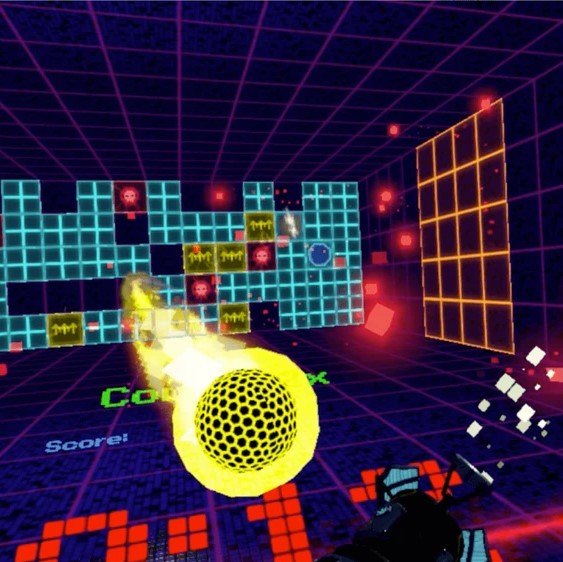
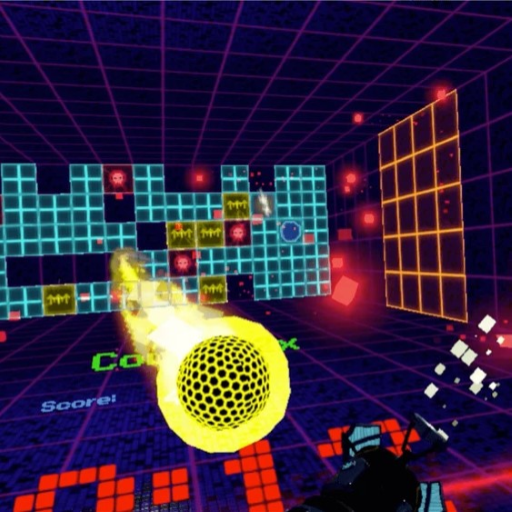
Included thumbnails for faster loading

diff --git a/pages/unity-midi-piano.html b/pages/unity-midi-piano.html
@@ -87,19 +87,22 @@
 							<!-- Wrapper for slides -->
 							<div class='carousel-inner'>
 								<div class='item active' data-slide-number='0'>
-									<video poster="../img/unity-midi-piano/screenshot_0.png" src="../img/unity-midi-piano/video_1.mp4" data-ckin="compact" data-color="white"></video>
+									<video poster="../img/unity-midi-piano/video_preview_1.png" src="../img/unity-midi-piano/video_1.mp4" data-ckin="compact" data-color="white"></video>
+								</div>
+								<div class='item' data-slide-number='1'>
+									<video poster="../img/unity-midi-piano/video_preview_2.png" src="../img/unity-midi-piano/video_2.mp4" data-ckin="compact" data-color="white"></video>
 								</div>
 								<div class='item' data-slide-number='2'>
-									<video poster="../img/unity-midi-piano/video_thumbnail_2.png" src="../img/unity-midi-piano/video_2.mp4" data-ckin="compact" data-color="white"></video>
+									<a href="#modal-2" data-toggle="modal" data-target="#modal-1"><img src='../img/unity-midi-piano/screenshot_1.png' alt='' /></a>
 								</div>
 								<div class='item' data-slide-number='3'>
-									<a href="#modal-2" data-toggle="modal" data-target="#modal-2"><img src='../img/unity-midi-piano/screenshot_2.png' alt='' /></a>
+									<a href="#modal-3" data-toggle="modal" data-target="#modal-2"><img src='../img/unity-midi-piano/screenshot_2.png' alt='' /></a>
 								</div>
 								<div class='item' data-slide-number='4'>
-									<a href="#modal-3" data-toggle="modal" data-target="#modal-3"><img src='../img/unity-midi-piano/screenshot_3.png' alt='' /></a>
+									<a href="#modal-4" data-toggle="modal" data-target="#modal-3"><img src='../img/unity-midi-piano/screenshot_3.png' alt='' /></a>
 								</div>
 								<div class='item' data-slide-number='5'>
-									<a href="#modal-4" data-toggle="modal" data-target="#modal-4"><img src='../img/unity-midi-piano/screenshot_4.png' alt='' /></a>
+									<a href="#modal-5" data-toggle="modal" data-target="#modal-4"><img src='../img/unity-midi-piano/screenshot_4.png' alt='' /></a>
 								</div>
 							</div>
 								
@@ -114,12 +117,12 @@
 						
 						<div id='slider-thumbs' class='carousel-container scrollbar-inner'>
 							<ul>
-							<li id="carousel-selector-0" class='active'><img src='../img/unity-midi-piano/screenshot_0.png' alt='' /></li>
+							<li id="carousel-selector-0" class='active'><img src='../img/unity-midi-piano/video_thumbnail_1.png' alt='' /></li>
 							<li id="carousel-selector-1"><img src='../img/unity-midi-piano/video_thumbnail_2.png' alt='' /></li>
-							<li id="carousel-selector-2"><img src='../img/unity-midi-piano/screenshot_1.png' alt='' /></li>
-							<li id="carousel-selector-3"><img src='../img/unity-midi-piano/screenshot_2.png' alt='' /></li>
-							<li id="carousel-selector-4"><img src='../img/unity-midi-piano/screenshot_3.png' alt='' /></li>
-							<li id="carousel-selector-5"><img src='../img/unity-midi-piano/screenshot_4.png' alt='' /></li>
+							<li id="carousel-selector-2"><img src='../img/unity-midi-piano/screenshot_thumbnail_1.png' alt='' /></li>
+							<li id="carousel-selector-3"><img src='../img/unity-midi-piano/screenshot_thumbnail_2.png' alt='' /></li>
+							<li id="carousel-selector-4"><img src='../img/unity-midi-piano/screenshot_thumbnail_3.png' alt='' /></li>
+							<li id="carousel-selector-5"><img src='../img/unity-midi-piano/screenshot_thumbnail_4.png' alt='' /></li>
 							</ul>
 						</div>
 					</div>

diff --git a/pages/o-koi.html b/pages/o-koi.html
@@ -111,7 +111,7 @@
 							<!-- Wrapper for slides -->
 							<div class='carousel-inner'>
 								<div class='item active' data-slide-number='0'>
-									<video poster="../img/o-koi/screenshot_6.png" src="../img/o-koi/video_1.mp4" data-ckin="compact" data-color="white"></video>
+									<video poster="../img/o-koi/video_preview_1.png" src="../img/o-koi/video_1.mp4" data-ckin="compact" data-color="white"></video>
 								</div>
 								<div class='item' data-slide-number='1'>
 									<a href="#modal-1" data-toggle="modal" data-target="#modal-1"><img src='../img/o-koi/screenshot_1.png' alt='' /></a>
@@ -147,14 +147,14 @@
 						
 						<div id='slider-thumbs' class='carousel-container scrollbar-inner'>
 							<ul>
-							<li id="carousel-selector-0" class='active'><img src='../img/o-koi/screenshot_6.png' alt='' /></li>
-							<li id="carousel-selector-1"><img src='../img/o-koi/screenshot_1.png' alt='' /></li>
-							<li id="carousel-selector-2"><img src='../img/o-koi/screenshot_2.png' alt='' /></li>
-							<li id="carousel-selector-3"><img src='../img/o-koi/screenshot_3.png' alt='' /></li>
-							<li id="carousel-selector-4"><img src='../img/o-koi/screenshot_4.png' alt='' /></li>
-							<li id="carousel-selector-5"><img src='../img/o-koi/screenshot_5.png' alt='' /></li>
-							<li id="carousel-selector-6"><img src='../img/o-koi/screenshot_6.png' alt='' /></li>
-							<li id="carousel-selector-7"><img src='../img/o-koi/screenshot_7.png' alt='' /></li>
+							<li id="carousel-selector-0" class='active'><img src='../img/o-koi/video_thumbnail_1.png' alt='' /></li>
+							<li id="carousel-selector-1"><img src='../img/o-koi/screenshot_thumbnail_1.png' alt='' /></li>
+							<li id="carousel-selector-2"><img src='../img/o-koi/screenshot_thumbnail_2.png' alt='' /></li>
+							<li id="carousel-selector-3"><img src='../img/o-koi/screenshot_thumbnail_3.png' alt='' /></li>
+							<li id="carousel-selector-4"><img src='../img/o-koi/screenshot_thumbnail_4.png' alt='' /></li>
+							<li id="carousel-selector-5"><img src='../img/o-koi/screenshot_thumbnail_5.png' alt='' /></li>
+							<li id="carousel-selector-6"><img src='../img/o-koi/screenshot_thumbnail_6.png' alt='' /></li>
+							<li id="carousel-selector-7"><img src='../img/o-koi/screenshot_thumbnail_7.png' alt='' /></li>
 							</ul>
 						</div>
 					</div>

diff --git a/pages/all-our-paradise.html b/pages/all-our-paradise.html
@@ -95,7 +95,7 @@
 							<!-- Wrapper for slides -->
 							<div class='carousel-inner'>
 								<div class='item active' data-slide-number='0'>
-									<video poster="../img/all-our-paradise/screenshot_2.png" src="../img/all-our-paradise/video_1.mp4" data-ckin="compact" data-color="white"></video>
+									<video poster="../img/all-our-paradise/video_preview_1.png" src="../img/all-our-paradise/video_1.mp4" data-ckin="compact" data-color="white"></video>
 								</div>
 								<div class='item' data-slide-number='1'>
 									<a href="#modal-1" data-toggle="modal" data-target="#modal-1"><img src='../img/all-our-paradise/screenshot_1.png' alt='' /></a>
@@ -125,12 +125,12 @@
 						
 						<div id='slider-thumbs' class='carousel-container scrollbar-inner'>
 							<ul>
-							<li id="carousel-selector-0" class='active'><img src='../img/all-our-paradise/screenshot_2.png' alt='' /></li>
-							<li id="carousel-selector-1"><img src='../img/all-our-paradise/screenshot_1.png' alt='' /></li>
-							<li id="carousel-selector-2"><img src='../img/all-our-paradise/screenshot_2.png' alt='' /></li>
-							<li id="carousel-selector-3"><img src='../img/all-our-paradise/screenshot_3.png' alt='' /></li>
-							<li id="carousel-selector-4"><img src='../img/all-our-paradise/screenshot_4.png' alt='' /></li>
-							<li id="carousel-selector-5"><img src='../img/all-our-paradise/screenshot_5.png' alt='' /></li>
+							<li id="carousel-selector-0" class='active'><img src='../img/all-our-paradise/video_thumbnail_1.png' alt='' /></li>
+							<li id="carousel-selector-1"><img src='../img/all-our-paradise/screenshot_thumbnail_1.png' alt='' /></li>
+							<li id="carousel-selector-2"><img src='../img/all-our-paradise/screenshot_thumbnail_2.png' alt='' /></li>
+							<li id="carousel-selector-3"><img src='../img/all-our-paradise/screenshot_thumbnail_3.png' alt='' /></li>
+							<li id="carousel-selector-4"><img src='../img/all-our-paradise/screenshot_thumbnail_4.png' alt='' /></li>
+							<li id="carousel-selector-5"><img src='../img/all-our-paradise/screenshot_thumbnail_5.png' alt='' /></li>
 							</ul>
 						</div>
 					</div>

diff --git a/pages/super-pixel-smash.html b/pages/super-pixel-smash.html
@@ -95,7 +95,7 @@
 							<!-- Wrapper for slides -->
 							<div class='carousel-inner'>
 								<div class='item active' data-slide-number='0'>
-									<video poster="../img/super-pixel-smash/video_thumbnail_1.png" src="../img/super-pixel-smash/video_1.webm" data-ckin="compact" data-color="white"></video>
+									<video poster="../img/super-pixel-smash/video_preview_1.png" src="../img/super-pixel-smash/video_1.webm" data-ckin="compact" data-color="white"></video>
 								</div>
 								<div class='item' data-slide-number='1'>
 									<a href="#modal-1" data-toggle="modal" data-target="#modal-1"><img src='../img/super-pixel-smash/screenshot_1.png' alt='' /></a>
@@ -126,11 +126,11 @@
 						<div id='slider-thumbs' class='carousel-container scrollbar-inner'>
 							<ul>
 							<li id="carousel-selector-0" class='active'><img src='../img/super-pixel-smash/video_thumbnail_1.png' alt='' /></li>
-							<li id="carousel-selector-1"><img src='../img/super-pixel-smash/screenshot_1.png' alt='' /></li>
-							<li id="carousel-selector-2"><img src='../img/super-pixel-smash/screenshot_2.png' alt='' /></li>
-							<li id="carousel-selector-3"><img src='../img/super-pixel-smash/screenshot_3.png' alt='' /></li>
-							<li id="carousel-selector-4"><img src='../img/super-pixel-smash/screenshot_4.png' alt='' /></li>
-							<li id="carousel-selector-5"><img src='../img/super-pixel-smash/screenshot_5.png' alt='' /></li>
+							<li id="carousel-selector-1"><img src='../img/super-pixel-smash/screenshot_thumbnail_1.png' alt='' /></li>
+							<li id="carousel-selector-2"><img src='../img/super-pixel-smash/screenshot_thumbnail_2.png' alt='' /></li>
+							<li id="carousel-selector-3"><img src='../img/super-pixel-smash/screenshot_thumbnail_3.png' alt='' /></li>
+							<li id="carousel-selector-4"><img src='../img/super-pixel-smash/screenshot_thumbnail_4.png' alt='' /></li>
+							<li id="carousel-selector-5"><img src='../img/super-pixel-smash/screenshot_thumbnail_5.png' alt='' /></li>
 							</ul>
 						</div>
 					</div>

diff --git a/pages/dr-egg.html b/pages/dr-egg.html
@@ -133,12 +133,12 @@
 						
 						<div id='slider-thumbs' class='carousel-container scrollbar-inner'>
 							<ul>
-							<li id="carousel-selector-0" class='active'><img src='../img/dr-egg-adventure-lab/screenshot_1.png' alt='' /></li>
-							<li id="carousel-selector-1"><img src='../img/dr-egg-adventure-lab/screenshot_2.png' alt='' /></li>
-							<li id="carousel-selector-2"><img src='../img/dr-egg-adventure-lab/screenshot_3.png' alt='' /></li>
-							<li id="carousel-selector-3"><img src='../img/dr-egg-adventure-lab/screenshot_4.png' alt='' /></li>
-							<li id="carousel-selector-4"><img src='../img/dr-egg-adventure-lab/screenshot_5.png' alt='' /></li>
-							<li id="carousel-selector-5"><img src='../img/dr-egg-adventure-lab/screenshot_6.png' alt='' /></li>
+							<li id="carousel-selector-0" class='active'><img src='../img/dr-egg-adventure-lab/screenshot_thumbnail_1.png' alt='' /></li>
+							<li id="carousel-selector-1"><img src='../img/dr-egg-adventure-lab/screenshot_thumbnail_2.png' alt='' /></li>
+							<li id="carousel-selector-2"><img src='../img/dr-egg-adventure-lab/screenshot_thumbnail_3.png' alt='' /></li>
+							<li id="carousel-selector-3"><img src='../img/dr-egg-adventure-lab/screenshot_thumbnail_4.png' alt='' /></li>
+							<li id="carousel-selector-4"><img src='../img/dr-egg-adventure-lab/screenshot_thumbnail_5.png' alt='' /></li>
+							<li id="carousel-selector-5"><img src='../img/dr-egg-adventure-lab/screenshot_thumbnail_6.png' alt='' /></li>
 							</ul>
 						</div>
 					</div>
